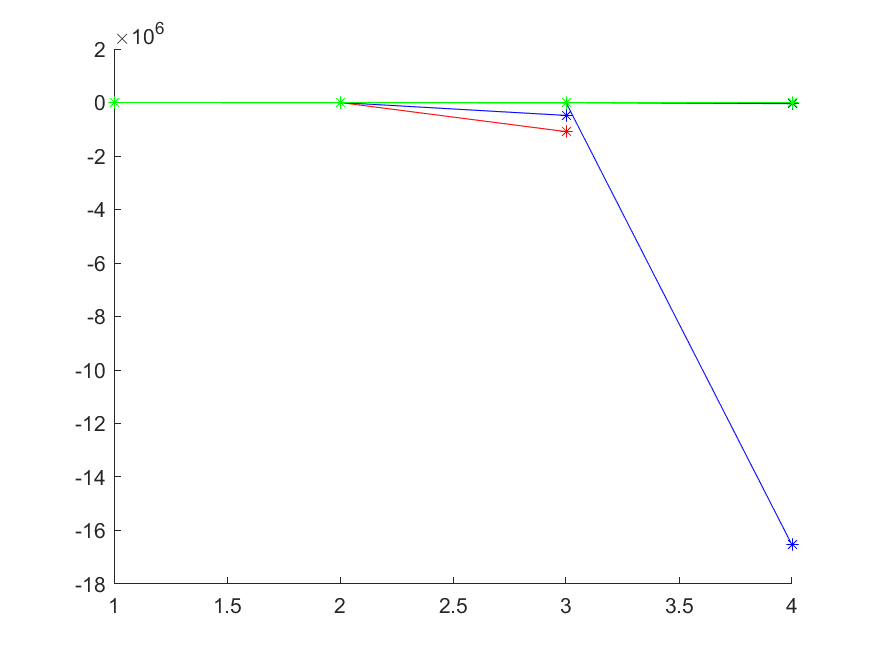
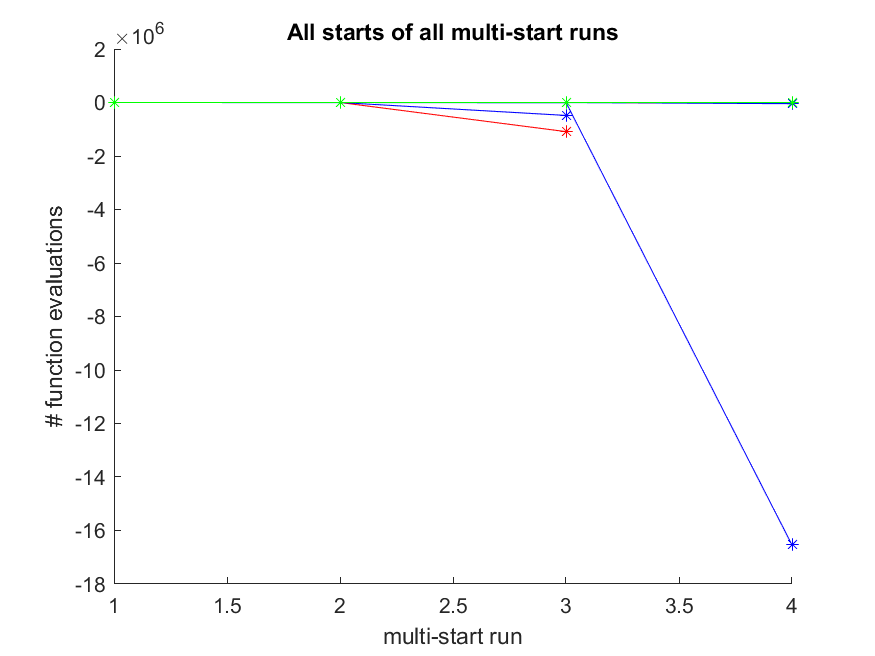
lho: better images

diff --git a/Study-LightweightHybridOptimizers/test_js/evaluate.m b/Study-LightweightHybridOptimizers/test_js/evaluate.m
@@ -57,7 +57,9 @@ for jGlobal = 1:3
     for k = 1:nAlgs
         plot(1:nExp, best_res{k}, [colors{k} '*-'], 'DisplayName', labels{k});
     end
-    title('Best found function value');
+    title(['Best found function value, ' num2str(stg(1)) ' runs, ' num2str(stg(1)*stg(2)) ' budget']);
+    xlabel('multi-start run');
+    ylabel('log-likelihood');
     legend('location', 'SouthWest');
     saveas(gcf, ['res/best_' num2str(stg(2)) '_' num2str(stg(1)) '.png']);
     
@@ -75,6 +77,8 @@ for jGlobal = 1:3
         plot(1:nExp, objfuns{k}, [colors{k} '*-'], 'DisplayName', labels{k});
     end
     title('Number of function evaluations');
+    xlabel('multi-start run');
+    ylabel('# function evaluations');
     legend;
     saveas(gcf, ['res/fevals_' num2str(stg(2)) '_' num2str(stg(1)) '.png']);
     
@@ -90,6 +94,8 @@ for jGlobal = 1:3
         plot(1:nExp, times{k}, [colors{k} '*-'], 'DisplayName', labels{k});
     end
     title('Overall time');
+    xlabel('multi-start run');
+    ylabel('time');
     legend;
     saveas(gcf, ['res/time_' num2str(stg(2)) '_' num2str(stg(1)) '.png']);
     
@@ -102,6 +108,9 @@ for jGlobal = 1:3
             plot(1:nStarts, res{k}(:, j), [colors{k} '*-']);
         end
     end
+    title('All starts of all multi-start runs');
+    xlabel('multi-start run');
+    ylabel('# function evaluations');
     saveas(gcf, ['res/allstarts_' num2str(stg(2)) '_' num2str(stg(1)) '.png']);
     
 end

diff --git a/Study-LightweightHybridOptimizers/test_rme/evaluate.m b/Study-LightweightHybridOptimizers/test_rme/evaluate.m
@@ -51,7 +51,9 @@ for jGlobal = 1:2
     for k = 1:nAlgs
         plot(1:nExp, best_res{k}, [colors{k} '*-'], 'DisplayName', labels{k});
     end
-    title('Best found function value');
+    title(['Best found function value, ' num2str(stg(1)) ' runs, ' num2str(stg(1)*stg(2)) ' budget']);
+    xlabel('multi-start run');
+    ylabel('log-likelihood');
     legend('location', 'SouthWest');
     saveas(gcf, ['res/best_' num2str(stg(2)) '_' num2str(stg(1)) '.png']);
 
@@ -69,6 +71,8 @@ for jGlobal = 1:2
         plot(1:nExp, objfuns{k}, [colors{k} '*-'], 'DisplayName', labels{k});
     end
     title('Number of function evaluations');
+    xlabel('multi-start run');
+    ylabel('# function evaluations');
     legend;
     saveas(gcf, ['res/fevals_' num2str(stg(2)) '_' num2str(stg(1)) '.png']);
     
@@ -84,6 +88,8 @@ for jGlobal = 1:2
         plot(1:nExp, times{k}, [colors{k} '*-'], 'DisplayName', labels{k});
     end
     title('Overall time');
+    xlabel('multi-start run');
+    ylabel('time');
     legend;
     saveas(gcf, ['res/time_' num2str(stg(2)) '_' num2str(stg(1)) '.png']);
     
@@ -96,6 +102,9 @@ for jGlobal = 1:2
             plot(1:nStarts, -log(-res{k}(:, j)), [colors{k} '*-']);
         end
     end
+    title('All starts of all multi-start runs');
+    xlabel('multi-start run');
+    ylabel('log-likelihood');
     saveas(gcf, ['res/allstarts_' num2str(stg(2)) '_' num2str(stg(1)) '.png']);
     
 end
